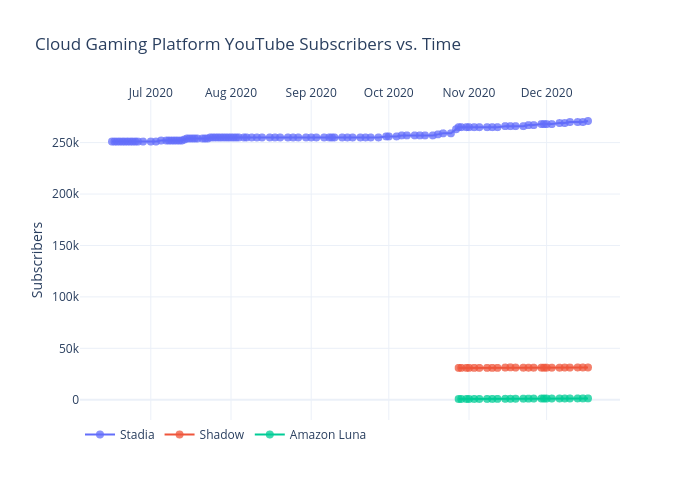
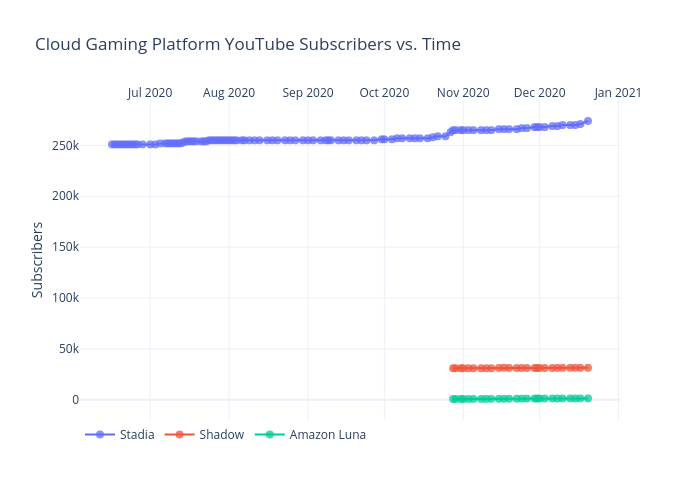
Add files via upload

diff --git a/youtube_platforms/figure.js b/youtube_platforms/figure.js
@@ -235,7 +235,8 @@ var figure = {
                 "270000",
                 "270000",
                 "270000",
-                "271000"
+                "271000",
+                "274000"
             ],
             "marker": {
                 "size": 8,
@@ -477,6 +478,7 @@ var figure = {
                 "31200",
                 "31300",
                 "31300",
+                "31400",
                 "31400",
                 "31400",
                 "31400"
@@ -723,7 +725,8 @@ var figure = {
                 "1280",
                 "1300",
                 "1300",
-                "1320"
+                "1320",
+                "1340"
             ],
             "marker": {
                 "size": 8,
@@ -741,8 +744,8 @@ var figure = {
             "side": "top",
             "type": "date",
             "range": [
-                "2020-06-04 11:15:28.6903",
-                "2020-12-28 12:44:31.3097"
+                "2020-06-04 06:44:45.1363",
+                "2020-12-31 17:15:14.8637"
             ],
             "title": {
                 "text": ""
@@ -752,8 +755,8 @@ var figure = {
         "yaxis": {
             "type": "linear",
             "range": [
-                -17768.28122811114,
-                289519.2812281111
+                -21798.67475728155,
+                296549.67475728155
             ],
             "title": {
                 "text": "Subscribers"
